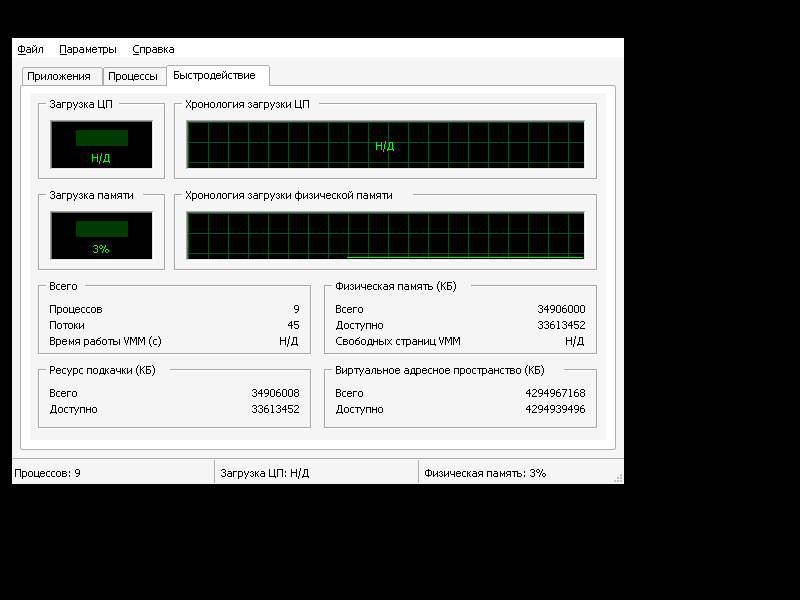
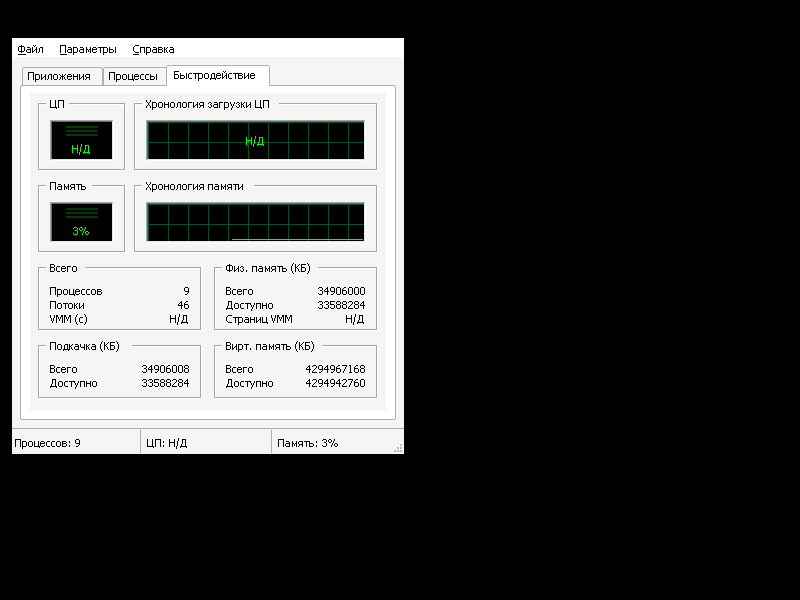
Match XP reference window size with compact performance panels

Changed region(s): [[0.0, 0.06, 0.7812, 0.81], [0.2188, 0.51, 0.25, 0.54]]

diff --git a/src/performance.c b/src/performance.c
@@ -2,7 +2,7 @@
 #include "performance.h"
 #include "i18n.h"
 #define HISTORY 120
-#define MIN_CONTENT_WIDTH 520
+#define MIN_CONTENT_WIDTH 320
 #define MIN_CONTENT_HEIGHT 300
 static TM_SYSTEM data;
 static DWORD memory_history[HISTORY], cpu_history[HISTORY];
@@ -83,9 +83,14 @@ static RECT group(HDC dc, int x, int y, int width, int height, int title)
 static void number(HDC dc, RECT r, int title, DWORD value, BOOL valid)
 {
     char text[40];
-    language_draw(dc,&r,title,DT_LEFT);
+    RECT measure={0,0,0,0}, value_rect=r;
     if (valid) wsprintfA(text, "%lu", value); else lstrcpyA(text, tr(T_NA));
-    if(valid) label(dc,r,text,DT_RIGHT);else language_draw(dc,&r,T_NA,DT_RIGHT);
+    if(valid) DrawTextA(dc,text,-1,&measure,DT_CALCRECT | DT_SINGLELINE | DT_NOPREFIX);
+    else language_draw(dc,&measure,T_NA,DT_CALCRECT);
+    value_rect.left=value_rect.right-(measure.right-measure.left);
+    r.right=value_rect.left-5;
+    if(r.right>r.left) language_draw(dc,&r,title,DT_LEFT | DT_END_ELLIPSIS);
+    if(valid) label(dc,value_rect,text,DT_RIGHT);else language_draw(dc,&value_rect,T_NA,DT_RIGHT);
 }
 static void plot(HDC dc, RECT r, const DWORD *values, BOOL meter, BOOL valid, DWORD current)
 {
@@ -139,36 +144,41 @@ static void paint(HDC dc, RECT client)
     RECT r,line;
     HGDIOBJ old_font;
     int width=client.right, height=client.bottom;
-    int top_height=(height-180)/2, meter_width=128, half=(width-28)/2;
+    BOOL compact=width<480;
+    int top_height=(height-(compact?168:180))/2;
+    int meter_width=compact?88:128, half=(width-28)/2;
+    int row_height=compact?14:16, totals_height=compact?70:76;
+    int paging_y, paging_height=compact?60:66;
     if(top_height<60) top_height=60;
+    paging_y=2*top_height+(compact?98:104);
     FillRect(dc,&client,GetSysColorBrush(COLOR_BTNFACE));
     old_font=SelectObject(dc,font);
     SetBkMode(dc,TRANSPARENT); SetTextColor(dc,GetSysColor(COLOR_BTNTEXT));
-    r=group(dc,8,4,meter_width,top_height,T_CPU);
+    r=group(dc,8,4,meter_width,top_height,compact?T_CPU_SHORT:T_CPU);
     plot(dc,r,cpu_history,TRUE,data.cpu_valid,data.cpu_percent);
     r=group(dc,meter_width+16,4,width-meter_width-24,top_height,T_CPUHISTORY);
     plot(dc,r,cpu_history,FALSE,data.cpu_valid,data.cpu_percent);
-    r=group(dc,8,top_height+12,meter_width,top_height,T_MEMLOAD);
+    r=group(dc,8,top_height+12,meter_width,top_height,compact?T_MEMLOAD_SHORT:T_MEMLOAD);
     plot(dc,r,memory_history,TRUE,TRUE,data.memory.dwMemoryLoad);
-    r=group(dc,meter_width+16,top_height+12,width-meter_width-24,top_height,T_MEMHISTORY);
+    r=group(dc,meter_width+16,top_height+12,width-meter_width-24,top_height,compact?T_MEMHISTORY_SHORT:T_MEMHISTORY);
     plot(dc,r,memory_history,FALSE,TRUE,data.memory.dwMemoryLoad);
-    r=group(dc,8,2*top_height+20,half,76,T_TOTALS);
-    line=r; line.bottom=line.top+16;
-    number(dc,line,T_PROCESSES,data.processes,data.processes_valid); line.top+=16;line.bottom+=16;
-    number(dc,line,T_THREADS,data.threads,data.processes_valid); line.top+=16;line.bottom+=16;
-    number(dc,line,T_UPTIME,data.vxd.uptime_ms/1000,data.vxd_valid);
-    r=group(dc,half+20,2*top_height+20,half,76,T_PHYSICAL);
-    line=r;line.bottom=line.top+16;
-    number(dc,line,T_TOTAL,data.memory.dwTotalPhys/1024,TRUE);line.top+=16;line.bottom+=16;
-    number(dc,line,T_AVAILABLE,data.memory.dwAvailPhys/1024,TRUE);line.top+=16;line.bottom+=16;
-    number(dc,line,T_VMMPAGES,data.vxd.free_pages,data.vxd_valid);
-    r=group(dc,8,2*top_height+104,half,66,T_PAGING);
-    line=r;line.bottom=line.top+16;
-    number(dc,line,T_TOTAL,data.memory.dwTotalPageFile/1024,TRUE);line.top+=16;line.bottom+=16;
+    r=group(dc,8,2*top_height+20,half,totals_height,T_TOTALS);
+    line=r; line.bottom=line.top+row_height;
+    number(dc,line,T_PROCESSES,data.processes,data.processes_valid); line.top+=row_height;line.bottom+=row_height;
+    number(dc,line,T_THREADS,data.threads,data.processes_valid); line.top+=row_height;line.bottom+=row_height;
+    number(dc,line,compact?T_UPTIME_SHORT:T_UPTIME,data.vxd.uptime_ms/1000,data.vxd_valid);
+    r=group(dc,half+20,2*top_height+20,half,totals_height,compact?T_PHYSICAL_SHORT:T_PHYSICAL);
+    line=r;line.bottom=line.top+row_height;
+    number(dc,line,T_TOTAL,data.memory.dwTotalPhys/1024,TRUE);line.top+=row_height;line.bottom+=row_height;
+    number(dc,line,T_AVAILABLE,data.memory.dwAvailPhys/1024,TRUE);line.top+=row_height;line.bottom+=row_height;
+    number(dc,line,compact?T_VMMPAGES_SHORT:T_VMMPAGES,data.vxd.free_pages,data.vxd_valid);
+    r=group(dc,8,paging_y,half,paging_height,compact?T_PAGING_SHORT:T_PAGING);
+    line=r;line.bottom=line.top+row_height;
+    number(dc,line,T_TOTAL,data.memory.dwTotalPageFile/1024,TRUE);line.top+=row_height;line.bottom+=row_height;
     number(dc,line,T_AVAILABLE,data.memory.dwAvailPageFile/1024,TRUE);
-    r=group(dc,half+20,2*top_height+104,half,66,T_VIRTUAL);
-    line=r;line.bottom=line.top+16;
-    number(dc,line,T_TOTAL,data.memory.dwTotalVirtual/1024,TRUE);line.top+=16;line.bottom+=16;
+    r=group(dc,half+20,paging_y,half,paging_height,compact?T_VIRTUAL_SHORT:T_VIRTUAL);
+    line=r;line.bottom=line.top+row_height;
+    number(dc,line,T_TOTAL,data.memory.dwTotalVirtual/1024,TRUE);line.top+=row_height;line.bottom+=row_height;
     number(dc,line,T_AVAILABLE,data.memory.dwAvailVirtual/1024,TRUE);
     SelectObject(dc,old_font);
 }

diff --git a/tests/gui_smoke.c b/tests/gui_smoke.c
@@ -67,26 +67,26 @@ static HWND wait_dialog(void)
     for(i=0;i<100 && !dialog;++i) { EnumWindows(find_dialog,(LPARAM)&dialog);Sleep(30); }
     return dialog;
 }
-static DWORD paint_hash(HWND w)
+static DWORD black_samples(HWND w)
 {
     HDC dc;
     RECT r;
-    DWORD hash=0;
+    DWORD black=0;
     int x,y;
     RedrawWindow(w,NULL,NULL,RDW_INVALIDATE | RDW_UPDATENOW);
     Sleep(50);
     dc=GetDC(w);GetClientRect(w,&r);
     for(y=0;y<r.bottom;y+=7) for(x=0;x<r.right;x+=7)
-        hash=(hash*33)^GetPixel(dc,x,y);
+        if(GetPixel(dc,x,y)==RGB(0,0,0)) ++black;
     ReleaseDC(w,dc);
-    return hash;
+    return black;
 }
 int main(int argc,char **argv)
 {
     STARTUPINFOA start={0};
     PROCESS_INFORMATION process;
     HWND tab,dialog;
-    DWORD before;
+    RECT bounds;
     WCHAR title[100];
     int i,page;
     char command[1024], hold[8];
@@ -99,6 +99,8 @@ int main(int argc,char **argv)
     for(i=0;i<200 && !target;++i) { EnumWindows(find_target,0);Sleep(30); }
     verify(target!=NULL,"application starts");
     if(!target) return 1;
+    GetWindowRect(target,&bounds);
+    verify(bounds.right-bounds.left==400 && bounds.bottom-bounds.top==450,"initial window matches 400x450 reference");
     tab=GetDlgItem(target,301);
     verify(tab!=NULL,"tab control exists");
     verify(SendMessageA(tab,TCM_GETITEMCOUNT,0,0)==3,"three tabs");
@@ -109,24 +111,21 @@ int main(int argc,char **argv)
     SendMessageA(target,WM_COMMAND,ID_PAUSE,0);
     for(i=0;i<60;++i) {
         page=i%3;change_page(tab,page);
-        MoveWindow(target,8,8,i%2?420:780,i%2?330:580,TRUE);
+        MoveWindow(target,8,8,i%2?400:780,i%2?450:580,TRUE);
         SendMessageA(target,WM_COMMAND,ID_REFRESH,0);
         check_page(page);
     }
     SendMessageA(target,WM_COMMAND,ID_RUSSIAN,0);
     GetWindowTextW(target,title,100);
     verify(title[0]==0x414 && title[1]==0x438,"Russian Unicode title");
-    MoveWindow(target,8,8,420,330,TRUE);
+    MoveWindow(target,8,8,400,450,TRUE);
     for(page=0;page<3;++page) { change_page(tab,page);check_page(page); }
     verify(performance!=NULL,"performance control found");
-    verify((GetWindowLongA(performance,GWL_STYLE)&WS_HSCROLL)!=0,"small window has horizontal scrolling");
-    verify((GetWindowLongA(performance,GWL_STYLE)&WS_VSCROLL)!=0,"small window has vertical scrolling");
-    before=paint_hash(performance);
-    SendMessageA(performance,WM_HSCROLL,SB_BOTTOM,0);
-    verify(paint_hash(performance)!=before,"horizontal scrolling changes the rendered viewport");
-    before=paint_hash(performance);
-    SendMessageA(performance,WM_VSCROLL,SB_BOTTOM,0);
-    verify(paint_hash(performance)!=before,"vertical scrolling changes the rendered viewport");
+    verify((GetWindowLongA(performance,GWL_STYLE)&WS_HSCROLL)==0,"reference minimum needs no horizontal scrolling");
+    verify((GetWindowLongA(performance,GWL_STYLE)&WS_VSCROLL)==0,"reference minimum needs no vertical scrolling");
+    GetClientRect(performance,&bounds);
+    verify(bounds.right>=320 && bounds.bottom>=300,"all compact panels fit the viewport");
+    verify(black_samples(performance)>50,"compact graphs are actually painted");
     MoveWindow(target,8,8,780,580,TRUE);
     verify((GetWindowLongA(performance,GWL_STYLE)&WS_HSCROLL)==0,"horizontal scrollbar hides after expansion");
     verify((GetWindowLongA(performance,GWL_STYLE)&WS_VSCROLL)==0,"vertical scrollbar hides after expansion");
@@ -143,7 +142,7 @@ int main(int argc,char **argv)
     Sleep(200);
     /* Stay on Performance for a screenshot; caller closes after capture. */
     SendMessageA(target,WM_COMMAND,ID_RUSSIAN,0);
-    change_page(tab,2);MoveWindow(target,8,8,420,330,TRUE);
+    change_page(tab,2);MoveWindow(target,8,8,400,450,TRUE);
     GetExitCodeProcess(process.hProcess,&exit_code);
     verify(exit_code==STILL_ACTIVE,"application survives UI stress");
     printf("%d checks, %d failures\n",checks,failures);

diff --git a/src/main.c b/src/main.c
@@ -124,6 +124,15 @@ static BOOL CALLBACK enumerate_window(HWND w, LPARAM unused)
     cell(apps, index, 1, pid_text);
     return TRUE;
 }
+static void update_status(void)
+{
+    RECT r;
+    BOOL compact;
+    GetClientRect(main_window,&r);compact=r.right<480;
+    language_status(status_bar,0,system_info.processes_valid?T_STATPROC:T_STATSTALE,system_info.processes,system_info.processes_valid);
+    language_status(status_bar,1,system_info.cpu_valid?(compact?T_STATCPU_SHORT:T_STATCPU):(compact?T_STATCPUNA_SHORT:T_STATCPUNA),system_info.cpu_percent,system_info.cpu_valid);
+    language_status(status_bar,2,compact?T_STATMEM_SHORT:T_STATMEM,system_info.memory.dwMemoryLoad,TRUE);
+}
 static void refresh(void)
 {
     HANDLE snapshot;
@@ -176,9 +185,7 @@ static void refresh(void)
     if (proc_top > 0) ListView_EnsureVisible(procs, proc_top, FALSE);
     tm_memory_sample(&system_info);
     performance_update(graph, &system_info, TRUE);
-    language_status(status_bar,0,system_info.processes_valid?T_STATPROC:T_STATSTALE,system_info.processes,system_info.processes_valid);
-    language_status(status_bar,1,system_info.cpu_valid?T_STATCPU:T_STATCPUNA,system_info.cpu_percent,system_info.cpu_valid);
-    language_status(status_bar,2,T_STATMEM,system_info.memory.dwMemoryLoad,TRUE);
+    update_status();
     refreshing=FALSE;
     update_actions();
 }
@@ -215,6 +222,7 @@ static void layout(void)
     button_width=process_width;
     if(button_width>(cw-2*gap)/3) button_width=(cw-2*gap)/3;
     MoveWindow(apps,0,0,cw,ch-34,TRUE);
+    ListView_SetColumnWidth(apps,0,cw-110);
     MoveWindow(procs,0,0,cw,ch-34,TRUE);
     MoveWindow(graph,0,0,cw,ch,TRUE);
     MoveWindow(end_button,cw-3*button_width-2*gap,ch-25,button_width,24,TRUE);
@@ -222,6 +230,7 @@ static void layout(void)
     MoveWindow(new_button,cw-button_width,ch-25,button_width,24,TRUE);
     MoveWindow(process_end_button,cw-process_width,ch-25,process_width,24,TRUE);
     InvalidateRect(main_window,NULL,TRUE);
+    update_status();
     update_actions();
 }
 static INT_PTR CALLBACK run_dialog(HWND w, UINT msg, WPARAM wp, LPARAM lp)
@@ -406,8 +415,8 @@ static LRESULT CALLBACK window_proc(HWND w, UINT msg, WPARAM wp, LPARAM lp)
         return 0;
     }
     case WM_GETMINMAXINFO:
-        ((MINMAXINFO *)lp)->ptMinTrackSize.x = 420;
-        ((MINMAXINFO *)lp)->ptMinTrackSize.y = 330;
+        ((MINMAXINFO *)lp)->ptMinTrackSize.x = 400;
+        ((MINMAXINFO *)lp)->ptMinTrackSize.y = 450;
         return 0;
     case WM_SIZE: layout(); return 0;
     case WM_NOTIFY:
@@ -501,10 +510,10 @@ void WINAPI WinMainCRTStartup(void)
         if(!create_w) ExitProcess(1);
         w=create_w(WS_EX_CONTROLPARENT,L"Taskmgr95Main",trw(T_TITLE),
             WS_OVERLAPPEDWINDOW | WS_CLIPCHILDREN,CW_USEDEFAULT,CW_USEDEFAULT,
-            620,440,NULL,create_menu(),instance,NULL);
+            400,450,NULL,create_menu(),instance,NULL);
     } else w = CreateWindowExA(WS_EX_CONTROLPARENT, APP_CLASS, "Task Manager 95",
         WS_OVERLAPPEDWINDOW | WS_CLIPCHILDREN, CW_USEDEFAULT, CW_USEDEFAULT,
-        620, 440, NULL, create_menu(), instance, NULL);
+        400, 450, NULL, create_menu(), instance, NULL);
     if (!w) ExitProcess(1);
     ShowWindow(w, SW_SHOWDEFAULT); UpdateWindow(w);
     while ((result = GetMessageA(&msg, NULL, 0, 0)) > 0) {

diff --git a/src/i18n.c b/src/i18n.c
@@ -60,6 +60,17 @@ static const WCHAR *words[T_COUNT][2] = {
     {L"Experimental VxD",L"Экспериментальный VxD"},
     {L"VMM uptime (s)",L"Время работы VMM (с)"},
     {L"VMM free pages",L"Свободных страниц VMM"},
+    {L"CPU Usage",L"ЦП"},
+    {L"Memory",L"Память"},
+    {L"Memory Usage History",L"Хронология памяти"},
+    {L"Physical Memory (K)",L"Физ. память (КБ)"},
+    {L"Page File (K)",L"Подкачка (КБ)"},
+    {L"Virtual Memory (K)",L"Вирт. память (КБ)"},
+    {L"Uptime (s)",L"VMM (с)"},
+    {L"VMM pages",L"Страниц VMM"},
+    {L"CPU: %lu%%",L"ЦП: %lu%%"},
+    {L"CPU: N/A",L"ЦП: Н/Д"},
+    {L"Memory: %lu%%",L"Память: %lu%%"},
 };
 void language_init(BOOL russian)
 {

diff --git a/src/i18n.h b/src/i18n.h
@@ -60,6 +60,17 @@ enum {
     T_DRIVER,
     T_UPTIME,
     T_VMMPAGES,
+    T_CPU_SHORT,
+    T_MEMLOAD_SHORT,
+    T_MEMHISTORY_SHORT,
+    T_PHYSICAL_SHORT,
+    T_PAGING_SHORT,
+    T_VIRTUAL_SHORT,
+    T_UPTIME_SHORT,
+    T_VMMPAGES_SHORT,
+    T_STATCPU_SHORT,
+    T_STATCPUNA_SHORT,
+    T_STATMEM_SHORT,
     T_COUNT
 };
 void language_init(BOOL russian);

diff --git a/docs/testing.md b/docs/testing.md
@@ -7,11 +7,11 @@
   без CRT DLL. Unicode-функции необязательны и вызываются только на NT/Wine.
 - LE VxD собирается Open Watcom 2.0; RCDATA/214 точно совпадает с бинарником.
 - Wine 10.0 WoW64, Xvfb, отдельная **x64 UI-сборка той же кодовой базы**:
-  147 проверок, 0 ошибок. Переключение трёх вкладок с таймером, 60 циклов
-  resize/refresh с минимумом 420×330, видимость и границы списков/кнопок, русский заголовок,
+  148 проверок, 0 ошибок. Переключение трёх вкладок с таймером, 60 циклов
+  resize/refresh с минимумом 400×450, видимость и границы списков/кнопок, русский заголовок,
   переключение обратно в English, открытие Shell About и Run, живой процесс.
-  Проверяются видимые полосы прокрутки в маленьком окне, изменение изображения
-  после горизонтальной/вертикальной прокрутки и скрытие полос при расширении.
+  Проверяются начальный размер 400×450, отсутствие прокрутки при этом размере,
+  пространство для всех компактных панелей и реальная отрисовка чёрных графиков.
 - 29 нативных проверок политики имён процессов: регистр, полный путь, критичные
   Win9x/NT-компоненты, пустое имя, обычные процессы и похожие незащищённые имена.
 - 10 backend-проверок под Wine64 с контролируемым Tool Help: обычный процесс,
@@ -38,7 +38,7 @@ Wine64-сборка не должна попадать в dist или выдав
 Сначала использовать снимок диска и запускать приложение без VxD.
 
 - Запуск EXE: нет ошибок DLL/импортов. Все три вкладки переключаются.
-- Развернуть, восстановить, уменьшить окно до 420×330; закрыть его другим окном и снова
+- Развернуть, восстановить, уменьшить окно до 400×450; закрыть его другим окном и снова
   открыть. Через несколько отсчётов скрытые списки не появляются на Performance.
 - Applications/Processes: белый фон списков, кнопки целиком видны и перерисовываются,
   переключение на Performance скрывает их. Графики не мерцают и не оставляют следов.
@@ -48,8 +48,9 @@ Wine64-сборка не должна попадать в dist или выдав
   End Process: No сохраняет процесс, Yes завершает; свой PID защищён.
   Выбор KERNEL32.DLL, MSGSRV32.EXE, MPREXE.EXE отключает завершение.
   Обработчик команды также должен отклонять защищённый PID.
-- В маленьком окне Performance обе прокрутки открывают скрытые панели;
-  возврат к большому размеру убирает прокрутку и возвращает начало содержимого.
+- При 400×450 все панели Performance видны без прокрутки при штатном шрифте.
+  Значения не накладываются на подписи. В большом окне возвращаются полные
+  заголовки; кнопки и список приложений сохраняют корректные размеры.
 - Русский ↔ English: меню, кнопки, заголовки списков, панели, сообщения.
   Для Win95 нужен ACP 1251. Перезапуск сохраняет язык при доступной записи INI.
 - Pause останавливает отсчёты, Refresh Now добавляет отсчёт, выделение сохраняется.

diff --git a/README.md b/README.md
@@ -12,9 +12,11 @@ ANSI Win32 на Windows 95, только системные DLL, без DLL C ru
 
 ## Что изменилось
 
-- Минимальное окно 420×330 (обе стороны на 25% меньше прежних 560×440).
-  Кнопки подстраиваются по ширине, панели быстродействия получают прокрутку
-  при нехватке места. При расширении окна полосы прокрутки исчезают.
+- Начальный и минимальный размер окна — 400×450, по референсу Windows XP.
+  В компактном режиме индикаторы уже, подписи сокращены на обоих языках,
+  для значений выделено отдельное место. При штатном шрифте все панели
+  быстродействия помещаются без прокрутки. Кнопки и столбец приложений
+  подстраиваются по ширине окна; при увеличении подписи становятся полными.
 - Завершение критичных процессов запрещено: KERNEL32.DLL, MSGSRV32.EXE,
   MPREXE.EXE и другие компоненты из `src/process_policy.c`. Защищены также
   PID 0 и сам диспетчер. Кнопка отключается, обработчик команды повторно
